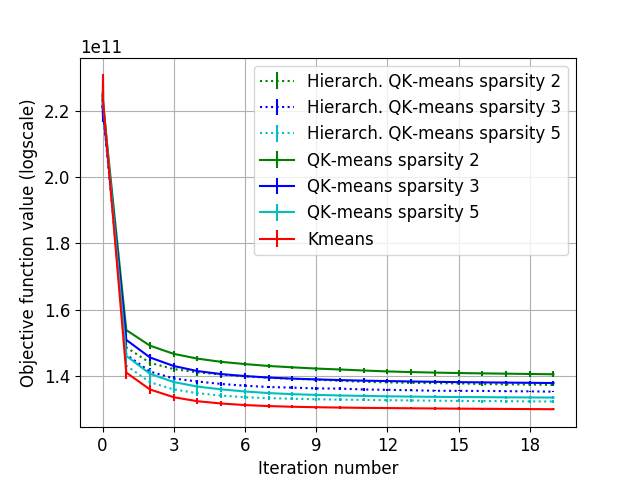
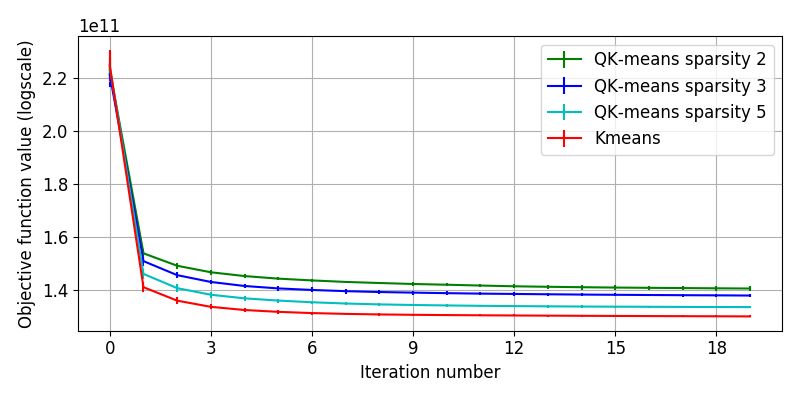
bug latex + changes in figure generation objective function

diff --git a/code/visualization/utils.py b/code/visualization/utils.py
@@ -8,6 +8,11 @@ output_file_end_re = {
     "results": r"_results.csv",
     "objective": r"_objective.npz"
 }
+output_file_end_re_old = {
+    "centroids": r"_centroids.npy",
+    "results": r"_results.csv",
+    "objective": r"_objective_.means_objective.csv"
+}
 
 def display_cmd_lines_from_root_name_list(root_names_list, src_results_dir, find_in_stderr=False):
     cmd_lines = []
@@ -67,7 +72,7 @@ def display_cmd_lines_from_root_name_list(root_names_list, src_results_dir, find
     return cmd_lines
 
 
-def get_dct_result_files_by_root(src_results_dir):
+def get_dct_result_files_by_root(src_results_dir, old_filename_objective=False):
     """
     From a directory with the result of oarjobs give the dictionnary of results file for each experiment. Files are:
 
@@ -135,7 +140,13 @@ def get_dct_result_files_by_root(src_results_dir):
 
         dct_files = {}
         complete = True
-        for type_file, root_re in output_file_end_re.items():
+
+        if old_filename_objective:
+            used_output_file_end_re =  output_file_end_re_old
+        else:
+            used_output_file_end_re = output_file_end_re
+
+        for type_file, root_re in used_output_file_end_re.items():
             forged_re_compiled = re.compile(r"{}".format(root_name) + root_re)
             try:
                 dct_files[type_file] = list(filter(forged_re_compiled.match, lst_str_filenames))[0]

diff --git a/reports/aaai_2020/introduction.tex b/reports/aaai_2020/introduction.tex
@@ -6,7 +6,7 @@ The  conventional  \kmeans  algorithm  has  a  complexity  of~$\bigO{\nexamples 
 However, the larger the number of clusters, the more iterations are needed to converge~\cite{arthur2006slow}.
 %
 As data dimensionality and data sample size continue to grow, it is critical to produce viable and cost-effective alternatives to the computationally expensive conventional \kmeans. 
-Previous attempts to alleviate the computational issues in \kmeans often relied on batch-, sparsity- and randomization-based methods~\cite{Sculley2010Web, boutsidis2014randomized,shen2017compressed,liu2017sparse}.
+Previous attempts to alleviate the computational issues in \kmeans often relied on batch-, sparsity- and randomization-based methods~\cite{Sculley2010Web,boutsidis2014randomized,shen2017compressed,liu2017sparse}.
 
 Fast transforms have recently received increased attention in machine learning community as they can be used  to speed up random projections~\cite{le2013fastfood,gittens2016revisiting} and to improve landmark-based approximations~\cite{si2016computationally}.
 %

diff --git a/code/visualization/2019/07/tech_report/show_objective_function_qmeans_analysis_mnist_fashion_mnist.py b/code/visualization/2019/07/tech_report/show_objective_function_qmeans_analysis_mnist_fashion_mnist.py
@@ -24,7 +24,7 @@ matplotlib.rc('font', **font)
 
 def get_objective_and_df(path):
     src_result_dir = pathlib.Path(path)
-    dct_output_files_by_root = get_dct_result_files_by_root(src_results_dir=src_result_dir)
+    dct_output_files_by_root = get_dct_result_files_by_root(src_results_dir=src_result_dir, old_filename_objective=True)
 
     col_to_delete = ["--initialization",
                      "--1-nn",
@@ -161,6 +161,6 @@ if __name__ == "__main__":
             # plt.title(title)
             print(title)
             plt.grid()
-            plt.savefig(output_dir / title.replace(" ", "_").replace(":", "").replace("#", ""))
-
-            # plt.show()
+            # plt.savefig(output_dir / title.replace(" ", "_").replace(":", "").replace("#", ""))
+            #
+            plt.show()

diff --git a/code/visualization/2019/07/tech_report/show_objective_function_qmeans_analysis_blobs.py b/code/visualization/2019/07/tech_report/show_objective_function_qmeans_analysis_blobs.py
@@ -24,7 +24,7 @@ matplotlib.rc('font', **font)
 
 def get_objective_and_df(path):
     src_result_dir = pathlib.Path(path)
-    dct_output_files_by_root = get_dct_result_files_by_root(src_results_dir=src_result_dir)
+    dct_output_files_by_root = get_dct_result_files_by_root(src_results_dir=src_result_dir, old_filename_objective=True)
 
     col_to_delete = ["--initialization",
                      "--1-nn",

diff --git a/reports/aaai_2020/aaai2020_qmeans.tex b/reports/aaai_2020/aaai2020_qmeans.tex
@@ -21,7 +21,7 @@
 \usepackage[table,xcdraw]{xcolor}
 \usepackage[utf8]{inputenc} % allow utf-8 input
 \usepackage[T1]{fontenc}    % use 8-bit T1 fonts
-\usepackage{hyperref}       % hyperlinks
+\usepackage[draft]{hyperref}       % hyperlinks
 \usepackage{url}            % simple URL typesetting
 \usepackage{booktabs}       % professional-quality tables
 \usepackage{amsfonts}       % blackboard math symbols

diff --git a/reports/aaai_2020/contributions.tex b/reports/aaai_2020/contributions.tex
@@ -144,6 +144,8 @@ For a fixed $\rvt$, the new sparsely-factorized centroids are solutions of the s
 % \end{split}
 %\end{align}
 
+
+
 \begin{align}
  \argmin_{\rmS_1, \ldots,\rmS_Q} & \norm{\rmD_{\sqrt{\rvn}} (\rmU - \rmV)}_F^2 + \sum_{k\in\intint{\nclusters}} c_k + \sum_{q\in\intint{\nfactors}} \delta_q(\rmS_q) \notag \\
  & \text{ s. t. } \rmV = \prod_{q\in\intint{\nfactors}}{\rmS_q} \nonumber\\
